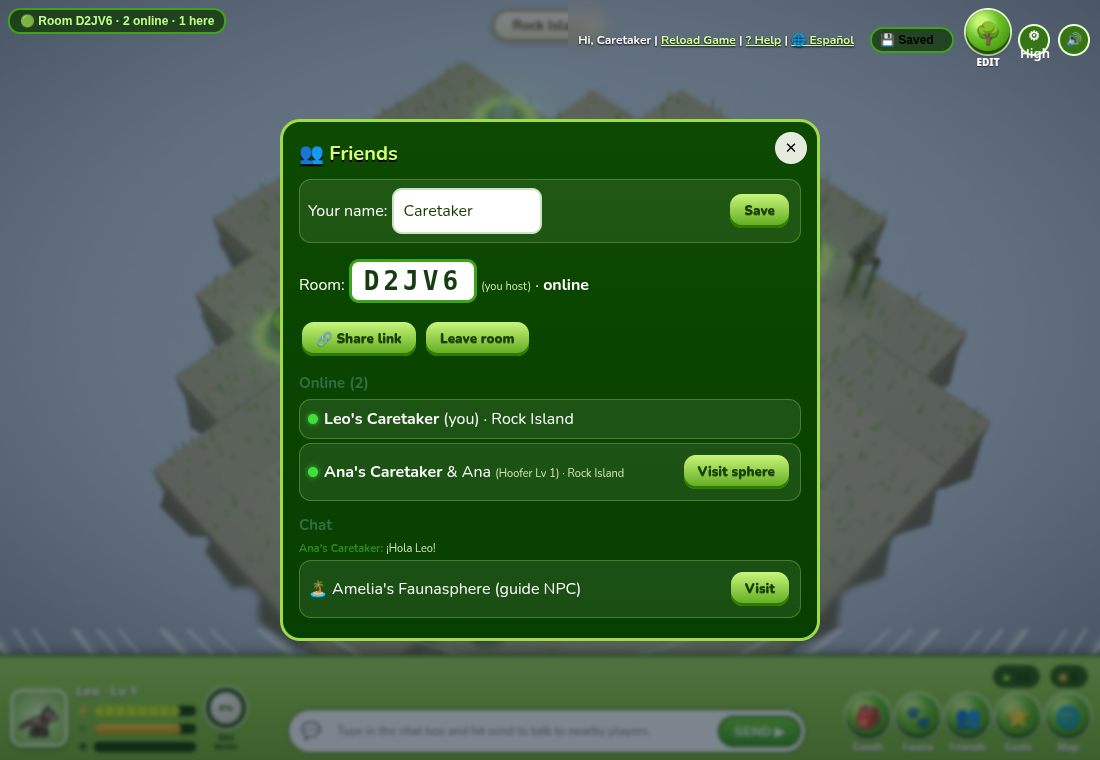
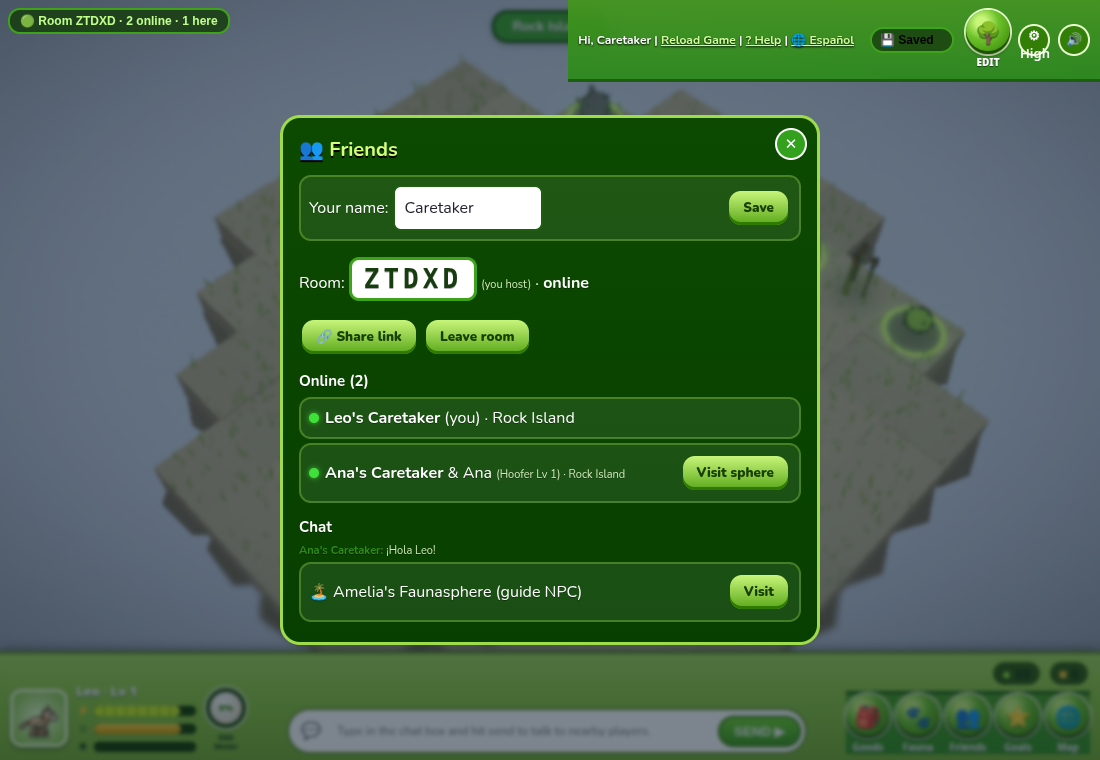
v4.5: notes 14-20 content

diff --git a/content6.js b/content6.js
@@ -1,0 +1,38 @@
+// v4.5 content from VIDEO_NOTES 14-20: Fishatish quests, Slickgrass Bog, Opulent Quarry, desert quests, Stay Longer, Bounty Hunter
+(function(){
+ZONES.push(
+ {id:'slickgrass',name:'Slickgrass Bog',biome:'swamp',n:10,tier:3,unlock:'g_bogs',stations:['gate','goal','vendor'],nodes:{stump:2,pool:1,dig:1},poll:10,props:['reeds','reeds','reeds','mushring'],tox:2},
+ {id:'quarry',name:'Opulent Quarry',biome:'dungeon',n:10,tier:4,unlock:'q_spelunk_open',stations:['gate','goal'],nodes:{rock:3,dig:1},poll:11,props:['torch','torch','torch'],tox:3});
+Object.assign(window.ZPAL||{}, {slickgrass:['#565735','#423423','#6A5C45','#5E695A','#8FA39A','#C9CFC2'],quarry:['#8D6E63','#5D4037','#424242','#4A6C8A','#2A2320','#4A3B33']});
+Object.assign(ITEMS,{
+ superworm:{name:'Superworm',type:'ing',icon:'🪱'},lakesand:{name:'Lake Sand',type:'ing',icon:'⏳'},lakesoil:{name:'Lake Soil',type:'ing',icon:'🟫'},
+ muddystone:{name:'Muddy Stone',type:'ing',icon:'🪨'},pepherb:{name:'Peculiar Herb',type:'ing',icon:'🌿'},oddherb:{name:'Odd Herb',type:'ing',icon:'🌱'},
+ toucan_block:{name:'Toucan Block',type:'decor',icon:'🦜'},chip_stoppie:{name:'Tusker Trick Chip - Stoppie',type:'ing',icon:'💾'},
+ slickgrass:{name:'Slickgrass',type:'ing',icon:'🌾'},slickslime:{name:'Slickgrass Slime',type:'ing',icon:'🟢'},
+ gem_amethyst:{name:'Sparkling Amethyst',type:'ing',icon:'💜'},gem_sunstone:{name:'Gorgeous Sunstone',type:'ing',icon:'🧡'},gem_topaz:{name:'Luminous Topaz',type:'ing',icon:'💙'},gem_grossular:{name:'Precious Grossular',type:'ing',icon:'💚'},
+ claytablet:{name:'Clay Tablet',type:'ing',icon:'🧱'},fudgefern:{name:'Fudgefern',type:'decor',icon:'🌴'}});
+DIGLOOT.fishatish=['superworm','lakesand','lakesoil','muddystone','boilroot','patty','skybloom'];
+DIGLOOT.mesa=(DIGLOOT.mesa||[]).concat(['claytablet']);DIGLOOT.slickgrass=['mud','duskroot','slickgrass'];DIGLOOT.quarry=['minerals','gem_amethyst','gem_sunstone'];
+ZDROP.slickgrass='slickgrass';ZDROP.quarry='minerals';
+// rare herbs while French Fries is active
+const sk=R.skill;R.skill=p=>{sk(p);if(S.zone==='fishatish'&&!S.done.q_fries&&Math.random()<.18){const k=has('pepherb')?'oddherb':'pepherb';addItem(k);toast('🌿 '+ITEMS[k].name+'!')}
+ if(S.zone==='quarry'){const g=['gem_amethyst','gem_sunstone','gem_topaz','gem_grossular'].find(k=>!has(k));if(g&&Math.random()<.5){addItem(g);toast('✨ '+ITEMS[g].name+'!')}}};
+const gems=['gem_amethyst','gem_sunstone','gem_topaz','gem_grossular'];
+GOALS.push(
+ {id:'q_solution',zone:'fishatish',name:'A Solution?',giver:'Esteban',say:"This area is amazing! Have you noticed that the pollution only collects near the ocean? There may be something inherent to the vegetation that prevents pollution. We need a supply of samples to test on a swamp lake zone.",text:'A Solution?: dig up a Superworm, Lake Sand and Lake Soil.',check:()=>has('superworm')&&has('lakesand')&&has('lakesoil'),take:{superworm:1,lakesand:1,lakesoil:1},lux:500,item:'toucan_block',done:"Excellent. Mr. Spirebottoms left this for you, and was explicit in his instructions to tell you it was 'for the help.'"},
+ {id:'q_wantrock',zone:'fishatish',name:'I Want A Rock',giver:'Esteban',say:"No pollution at all here! Incredible. Well, the atmosphere still isn't breathable by humans. I'm convinced it's related to an item best described as a 'Muddy Stone'. It's technical. I'll trade some of our new trickchips for them. Here's a sample. We have them for all the known species of Fauna. Whenever you find a Muddy Stone, this Goal Station will unlock a trade for you.",text:'I Want A Rock: dig up a Muddy Stone.',check:()=>has('muddystone'),take:{muddystone:1},lux:300,item:'chip_stoppie'},
+ {id:'q_fries',zone:'fishatish',name:'French Fries',giver:'Nina',say:"Hey, this is a recording. French fries are the best, and they're better with herbs from the beaches. Better than just salt for sure. There's one kind on Rocky Beach and one on Forestside Beach. I can make your Fauna find them if you're on this Goal. Well, help it find them. They're super rare. But I'm growing so I'm always hungry. The end. Click.",text:'French Fries: find a Peculiar Herb and an Odd Herb with your fauna\'s ability.',check:()=>has('pepherb')&&has('oddherb'),take:{pepherb:1,oddherb:1},lux:10000,done:"Is this how I make the message start up when they're done? OK, OK! OK, so first: yum, and second, don't worry, I share with Uncle Esteban so he can clone them. They won't run out."},
+ {id:'q_walrus',zone:'slickgrass',name:'Oil Up That Walrus',giver:'Amelia',say:"Poor Scrutinizer. We don't know how old he is, but he must be getting up there. His coat's getting a little frizzy. That's really bad for him if he wants to go in the cold water. We've got to keep him waterproof! This area is named for the Slickgrass that grows here. Slickgrass can be used to supplement the oil that the Scrutinizer naturally produces. Help keep him warm! And handsome! OK, maybe just warm!",text:'Oil Up That Walrus: zap for 3 Slickgrass.',check:()=>has('slickgrass',3),take:{slickgrass:3},lux:4000,done:"Ah, good, look at him, he looks happier. Well, I'm sure he is, I mean. Next time you're in the Bog, come to the Goal Station and you can get another batch."},
+ {id:'q_spelunk_open',zone:'bogs',name:'Spelunking for Profit',giver:'Prospector',say:"Hey there, starfriend! The ol' prospector's eye was right on. That cave near where yeh found the skull leads down to a mine. Brings back some fond memories of explosions and gleams in the darkness. Now that I'm gettin' on and have the young'ns to watch after I need someone like you to do the delvin' into the dark. Take this doohickey and use it on any fass-er-natin' rock formations down there. Then report back to me on what ya find. Good Luck! ... I don't expect it to be too dangerous.",text:'Spelunking for Profit: reach level 10 to open the way to the Opulent Quarry.',check:s=>maxLv(s)>=10,lux:200},
+ {id:'q_spelunk',zone:'quarry',name:'Spelunking for Profit (Gems)',giver:'Prospector',text:'Use your fauna\'s ability on the glowing rocks to find all 4 gems.',check:()=>gems.every(k=>has(k)),take:Object.fromEntries(gems.map(k=>[k,1])),lux:5500,done:"Well whatta we have here. Very nice, very nice indeed. I bet we could make a chunk a change off of these gems. Let me know if you find anything else down there."},
+ {id:'q_chisels',zone:'mesa',name:'And Yet, No Chisels',giver:'Amelia',say:"This area must be older than the forested areas. Remember the old flyers that are in the Forest Amphitheater? Well here, there's tablets. Collect five for a reward.",text:'And Yet, No Chisels: dig desert cracks for 5 Clay Tablets.',check:()=>has('claytablet',5),take:{claytablet:5},lux:2000,done:"Oh, you got five? They're pretty hard to find. I thought asking for five would give me more time. I've already got so many, and I'm not even sure if any of them are in the same language."},
+ {id:'q_surf',zone:'mesa',name:'If Only There Was A Surf Trick Chip',giver:'Amelia',say:"So those Clay Tablets, they were ads just like the paper ones in the Forest Amphitheater. Actually, they're not exactly like the other ads. They're ads for a tropical paradise getaway. The place is called Fishatish Island. You can get there across a Sand Bar through the gate right at the base of this rock formation.",text:'If Only There Was A Surf Trick Chip: finish And Yet, No Chisels first.',check:()=>!!S.done.q_chisels,lux:3000},
+ {id:'q_stay',zone:'puddinpie',name:'Stay Longer',giver:'Nina',say:"I figured out how to stay asleep for as long as you want! You just have to keep finding Dream Donuts or Trance Taffys. Can you stay here for 10 minutes?",text:'Stay Longer: stay in Puddinpie Falls for 10 minutes in one dream.',check:()=>(S.stats.dream||0)>=600,lux:1000,item:'fudgefern',done:"Great job, here's a prize!"},
+ {id:'q_bounty',zone:'bogs',name:'Sniffer, the Bounty Hunter',giver:'Prospector',say:"E.P.'s problems with the Vile Pollution in the swamp areas have led him to put out a bounty for cleaning Six-Eyed Viles. Zap one of each kind to collect the bounty.",text:'Sniffer, the Bounty Hunter: zap 3 Six-Eyed Viles in the swamps.',check:s=>((s.stats.toxZ.bogs||0)+(s.stats.toxZ.slickgrass||0))>=3,lux:5000,done:"Roger that, starfriend! You just earned yerself a bounty!"});
+// count dream time
+let dreamRun=0;setInterval(()=>{try{if(S.zone==='puddinpie'){dreamRun++;S.stats.dream=Math.max(S.stats.dream||0,dreamRun)}else dreamRun=0}catch(e){}},1000);
+// repeatable walrus
+const cl=R.claim;R.claim=p=>{cl(p);if(p.gid==='q_walrus'&&S.done.q_walrus)setTimeout(()=>{delete S.done.q_walrus},50)};
+// make sure new zones get state on old saves
+try{for(const z of ['slickgrass','quarry'])if(S&&S.zones&&!S.zones[z]){}}catch(e){}
+})();

diff --git a/v5.js b/v5.js
@@ -142,7 +142,7 @@ R.feed=({item})=>{const f=fa(),it=ITEMS[item];if(!S.player.inv[item])return;
  rt.say={text:f.name+' thinks: Flavors: '+fl.join(', ')+(like?' — Yum!':hate?' — Yuck!':''),at:now()};if(hate){rt.frownT=now();Sound.sfx('moan')}
  toast(f.name+(like?' LOVES ':hate?' dislikes ':' eats ')+it.name+' (+'+(it.E||it.e*11)+' Energy)')};
 R.craft=({st,r})=>{const rc=STUMPS[st].rec[r];if(!Object.entries(rc.in).every(([k,v])=>(S.player.inv[k]||0)>=v))return toast('Missing ingredients.');for(const[k,v]of Object.entries(rc.in))S.player.inv[k]-=v;addItem(rc.out);S.stats.made[rc.out]=(S.stats.made[rc.out]||0)+1;Sound.sfx('dig');setTimeout(()=>Sound.sfx('coin'),400);emit('skill',{o:zs(S.zone).objs.find(o=>o.type===st),l:0});toast(STUMPS[st].name+': made '+ITEMS[rc.out].name+'!')};
-R.claim=({gid})=>{const g=GOALS.find(g=>g.id===gid);if(!g||S.done[gid]||!g.check(S))return;if(g.take&&!Array.isArray(g.take)){for(const[k,n]of Object.entries(g.take))S.player.inv[k]=Math.max(0,(S.player.inv[k]||0)-n);const t=g.take;g.take=null;R0.claim({gid});g.take=t}else R0.claim({gid});if(g.done)setTimeout(()=>V5.dialog(g.giver,g.done),600)};
+R.claim=({gid})=>{const g=GOALS.find(g=>g.id===gid);if(!g||S.done[gid]||!g.check(S))return;if(g.take&&!Array.isArray(g.take)){for(const[k,n]of Object.entries(g.take))S.player.inv[k]=Math.max(0,(S.player.inv[k]||0)-n);const t=g.take,ck=g.check;g.take=null;g.check=()=>true;try{R0.claim({gid})}finally{g.take=t;g.check=ck}}else R0.claim({gid});if(g.done)setTimeout(()=>V5.dialog(g.giver,g.done),600)};
 R.useCream=()=>{if(!S.player.inv.cream)return;S.player.inv.cream--;S.stats.cream=(S.stats.cream||0)+1;const f=fa();f.happiness=clamp(f.happiness+30);rt.happyT=now();emit('level');toast('✨ '+f.name+' sparkles after a Beauty Cream spa treatment!')};
 R.genekit=({fid})=>{const f=S.fauna[fid];if(!f||!S.player.inv.genekit)return;S.player.inv.genekit--;f.tested=1;Sound.sfx('moan');toast('🧬 Genome revealed for '+f.name+'.')};
 R.learn=({item})=>{const it=ITEMS[item];if(!S.player.inv[item]||!it.trick)return;if(S.tricks.includes(it.trick))return toast('Your fauna already know that trick.');S.player.inv[item]--;S.tricks.push(it.trick);emit('goal');toast('💾 Learned a new trick: '+it.trick[0].toUpperCase()+it.trick.slice(1)+'! Tap your fauna\'s portrait for Tricks.')};

diff --git a/index.html b/index.html
@@ -16,7 +16,8 @@
 <script src="data.js"></script><script src="audio.js"></script><script src="art.js"></script><script src="zonepal.js"></script>
 <script src="savedb.js"></script><script src="game.js"></script><script src="save.js"></script><script src="fshooks.js"></script>
 <script src="v5.js"></script>
-<script src="mech.js"></script><script src="vendor/peerjs.min.js"></script><script src="vendor/nostr.bundle.js"></script><script src="net.js"></script>
+<script src="mech.js"></script>
+<script src="content6.js"></script><script src="vendor/peerjs.min.js"></script><script src="vendor/nostr.bundle.js"></script><script src="net.js"></script>
 <script type="importmap">{"imports":{"three":"./vendor/three/three.module.min.js"}}</script>
 <script type="module" src="gl.js"></script><script>(function(){const tips=["Take a luxurious spa vacation in the magical mud of the Rejuvenating Marsh. Relax, restore, and turn mud into beauty!","Earning Lux fills your Egg Meter. Fill it up to level up and lay an egg!","Each species has its own gathering ability. Hoofers kick trees, Sniffers lift rocks, Scooters dive.","Ripe things glow green. Red means not yet, or not for this fauna.","Your zapper collar glows brighter as your fauna levels up."],st=["Signing in…","Loading resources…","Processing resources…","Waiting for world…"];const t=document.getElementById('ltip');if(t)t.textContent='Tip: '+tips[Math.floor(Math.random()*tips.length)];let k=0;const iv=setInterval(()=>{const s=document.getElementById('lstat'),p=document.getElementById('lprog');if(!s){clearInterval(iv);return}k++;s.textContent=st[Math.min(3,k>>1)];p.style.width=Math.min(95,k*12)+'%'},250)})()</script>
 </body></html>

diff --git a/sw.js b/sw.js
@@ -1,4 +1,4 @@
-const C='fs-v44-1',F=['./','index.html','style.css','data.js','audio.js','art.js','game.js','save.js','fshooks.js','zonepal.js','mech.js','savedb.js','v5.js','net.js','i18n.js','i18n_es.js','vendor/peerjs.min.js','gl.js','vendor/three/three.module.min.js','manifest.json','icon.svg','icon-192.png','icon-512.png'];
+const C='fs-v45-1',F=['./','index.html','style.css','data.js','audio.js','art.js','game.js','save.js','fshooks.js','zonepal.js','mech.js','content6.js','savedb.js','v5.js','net.js','i18n.js','i18n_es.js','vendor/peerjs.min.js','gl.js','vendor/three/three.module.min.js','manifest.json','icon.svg','icon-192.png','icon-512.png'];
 self.addEventListener('install',e=>{self.skipWaiting();e.waitUntil(caches.open(C).then(c=>c.addAll(F)).catch(()=>{}))});
 self.addEventListener('activate',e=>e.waitUntil(caches.keys().then(k=>Promise.all(k.filter(x=>x!==C).map(x=>caches.delete(x)))).then(()=>self.clients.claim())));
 // network-first so deploys show up immediately; cache fallback offline

diff --git a/RELEASES.md b/RELEASES.md
@@ -4,3 +4,4 @@
 - 2026-10-25 1:13 PM EDT — v4.2: 💾 Saved indicator is now static (no zoom/pulse/bounce, fixed width); the word 'Saved' just fades out by opacity. Manual Save button has no zoom animation. SW cache fs-v42-1.
 - 2026-10-25 1:17 PM EDT — v4.3: Art direction toward the original Flash look: flat 3-band toon shading on everything, thick black outlines (inverted hull), no tone mapping, bright high-ambient lighting with gentle sun, shadow maps off (soft contact blobs only), flat terrain colors, per-zone hex palettes from VIDEO_NOTES 13-18 (zonepal.js), steeper top-down camera, softer bloom, green translucent rounded UI panels (#2B8B1A-#44981C, #33A11D) with white text. Screenshots: screenshots/v5_art_*.png. SW cache fs-v43-1.
 - 2026-10-25 1:22 PM EDT — v4.4: Mechanics from notes 13-20: 3+ connected same-type pollution clusters break together (pollution now spawns in clusters); zap progress ring above blocks; bouncing loot drops that fly to your fauna; green path trail when walking; level-up ring; GOAL COMPLETE banner drops in on claim; fauna run faster at full energy; ability-required tooltips; underwater zones now enterable but non-Water-Proof fauna drain Energy+Happiness, frown, and get sent home in a smoke puff (same for Cold Proof in snow zones and Heat Proof in hot zones); tap your fauna portrait for a happy dance (+Happiness); Moon Pillow (given at Lv3) dreams you to Puddinpie Falls with an 8:00 Sleepy Time timer, Dream Donut +10 s / Trance Taffy +1:00, Sleepy vileys -10 s, wake home at 0. Block palettes from notes 20 (home #739E33/#4E463A, ice #CBE6F1/#3B5E7D, swamp #565735/#423423). Screenshots: screenshots/v5_mech_*.png. SW cache fs-v44-1.
+- 2026-10-25 1:25 PM EDT — v4.5: New zones Slickgrass Bog and Opulent Quarry (palettes from notes); quests with original dialog: A Solution?, I Want A Rock, French Fries (Fishatish), Oil Up That Walrus (repeatable), Spelunking for Profit (4 gems), And Yet No Chisels, If Only There Was A Surf Trick Chip, Stay Longer (10 min in Puddinpie dream), Sniffer the Bounty Hunter; new dig loot (Superworm, Lake Sand/Soil, Muddy Stone, Clay Tablets, gems, herbs). Fixed a bug where item-turn-in goals (e.g. Habitat for Faunanity) could never be claimed. SW cache fs-v45-1.
